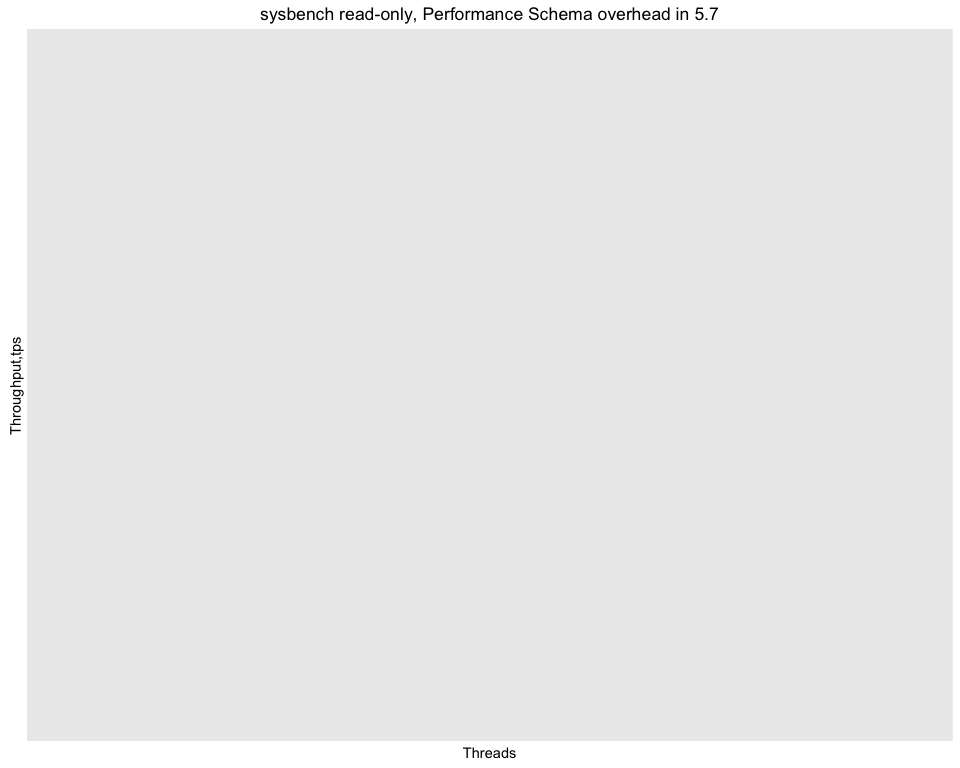
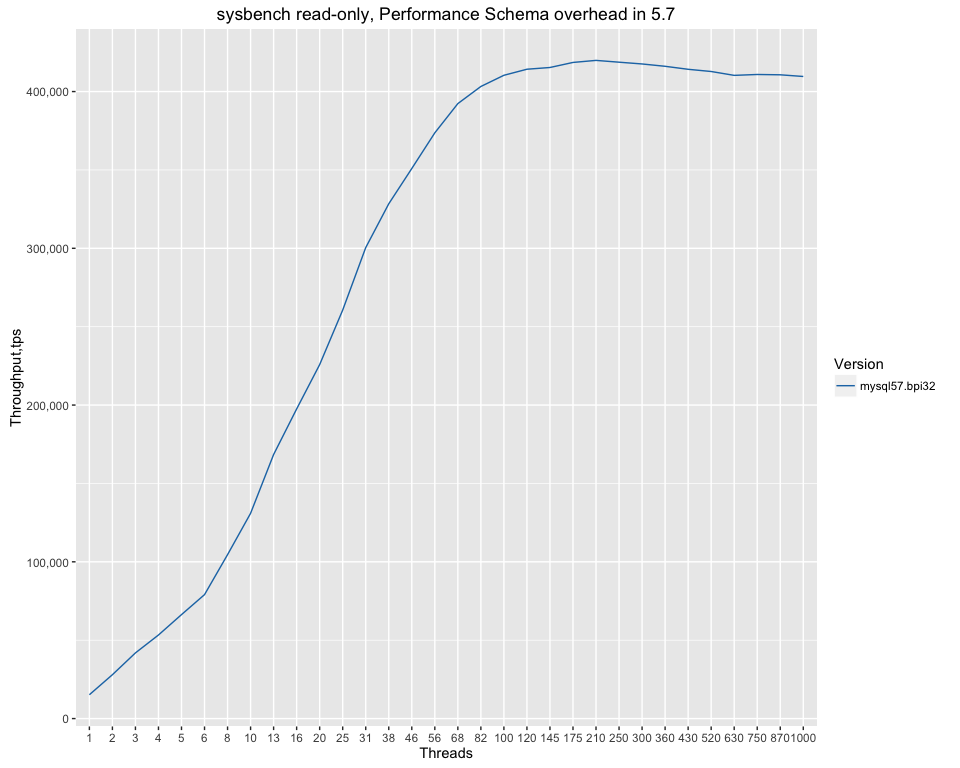
local-PK summary

diff --git a/local-PK/summary/local-PK.md b/local-PK/summary/local-PK.md
@@ -1,0 +1,72 @@
+MySQL 5.5 / 5.6 / 5.7 - sysbench PK lookup queries in memory
+============================================================
+
+Setup
+-----
+
+-   Client (sysbench) and server are on the same server
+-   CPU: 56 logical CPU threads servers Intel(R) Xeon(R) CPU E5-2683 v3 @ 2.00GHz
+
+![](local-PK_files/figure-markdown_github/versions-1.png)
+
+Performance Schema overhead in 5.6
+----------------------------------
+
+-   psOFF - MySQL 5.6 started with --performance-schema=OFF
+-   mysql56sc.no-perf-schema-compiled.ibpi32 - PERFORMANCE\_SCHEMA was not compiled
+
+![](local-PK_files/figure-markdown_github/unnamed-chunk-2-1.png)
+
+Performance Schema overhead in 5.7
+----------------------------------
+
+-   psOFF - MySQL 5.7 started with --performance-schema=OFF
+-   psALL\_ON - MySQL 5.6 started with --performance-schema-instrument='%=ON'
+-   mysql57.tiRC.no-perf-schema-compiled - PERFORMANCE\_SCHEMA was not compiled
+
+![](local-PK_files/figure-markdown_github/unnamed-chunk-3-1.png)
+
+InnoDB\_Metrics overhead in 5.7
+-------------------------------
+
+-   mysql57.ibpi32.imON - MySQL 5.7 with INNODB\_METRICS enabled (all)
+
+![](local-PK_files/figure-markdown_github/innodbmetrics-1.png)
+
+Tabular format
+--------------
+
+|  Threads|  MySQL 5.5|  MySQL 5.6|  MySQL 5.6 Perf\_schema OFF|  MySQL 5.7|  MySQL 5.7 Perf\_schema OFF|
+|--------:|----------:|----------:|---------------------------:|----------:|---------------------------:|
+|        1|   22588.99|   16762.94|                    20720.66|   15206.00|                    16965.74|
+|        2|   41043.80|   34782.86|                    37784.93|   27987.05|                    32911.72|
+|        3|   57805.33|   51532.73|                    55935.16|   41892.49|                    44462.01|
+|        4|   75356.37|   68001.79|                    72551.91|   53313.79|                    59773.84|
+|        5|   90618.89|   81987.92|                    89340.83|   66315.78|                    75140.89|
+|        6|  106733.32|   98123.77|                   105827.56|   79068.86|                    89465.83|
+|        8|  137936.41|  130472.50|                   139920.39|  104568.97|                   116866.03|
+|       10|  168095.38|  161824.04|                   172171.03|  130944.38|                   146700.39|
+|       13|  197968.19|  206475.18|                   218440.88|  168443.49|                   186810.27|
+|       16|  218251.16|  233505.38|                   245751.05|  197516.45|                   220047.01|
+|       20|  227247.29|  265014.48|                   281621.70|  225822.72|                   249182.30|
+|       25|  242784.28|  301128.36|                   318541.83|  260607.33|                   287469.26|
+|       31|  245424.93|  337320.61|                   359676.86|  300452.09|                   329931.06|
+|       38|  235518.17|  356666.43|                   379616.62|  328393.80|                   360029.10|
+|       46|  226039.71|  377083.88|                   399701.37|  350903.97|                   385700.17|
+|       56|  213440.34|  393956.52|                   417787.21|  373665.97|                   409374.05|
+|       68|  211256.16|  409691.70|                   433235.43|  392313.33|                   429086.00|
+|       82|  210674.53|  416270.60|                   440210.96|  403242.77|                   444762.73|
+|      100|  210107.36|  420210.97|                   437821.43|  410379.11|                   452848.95|
+|      120|  195114.07|  417149.76|                   434773.13|  414244.79|                   460480.87|
+|      145|  173935.01|  413809.35|                   430867.49|  415353.88|                   463688.77|
+|      175|  135920.05|  410554.13|                   427284.75|  418575.67|                   466536.23|
+|      210|  103566.92|  403483.15|                   423971.52|  419883.96|                   467697.89|
+|      250|   73852.42|  401369.60|                   419453.82|  418734.91|                   466516.86|
+|      300|   53322.26|  399021.04|                   413392.06|  417605.67|                   464344.74|
+|      360|   40167.48|  399686.84|                   409330.64|  416116.24|                   463372.74|
+|      430|   31310.51|  399108.23|                   405040.47|  414203.16|                   461739.56|
+|      520|   23822.91|  399083.03|                   399999.21|  412798.77|                   463047.02|
+|      630|   17945.75|  399547.30|                   390764.74|  410329.70|                   459987.08|
+|      750|   13834.82|  400288.65|                   384763.37|  410895.51|                   461680.98|
+|      870|   10879.58|  400180.58|                   362852.30|  410690.11|                   460786.68|
+|     1000|    8409.07|  399618.70|                   341816.72|  409618.95|                   459372.58|
